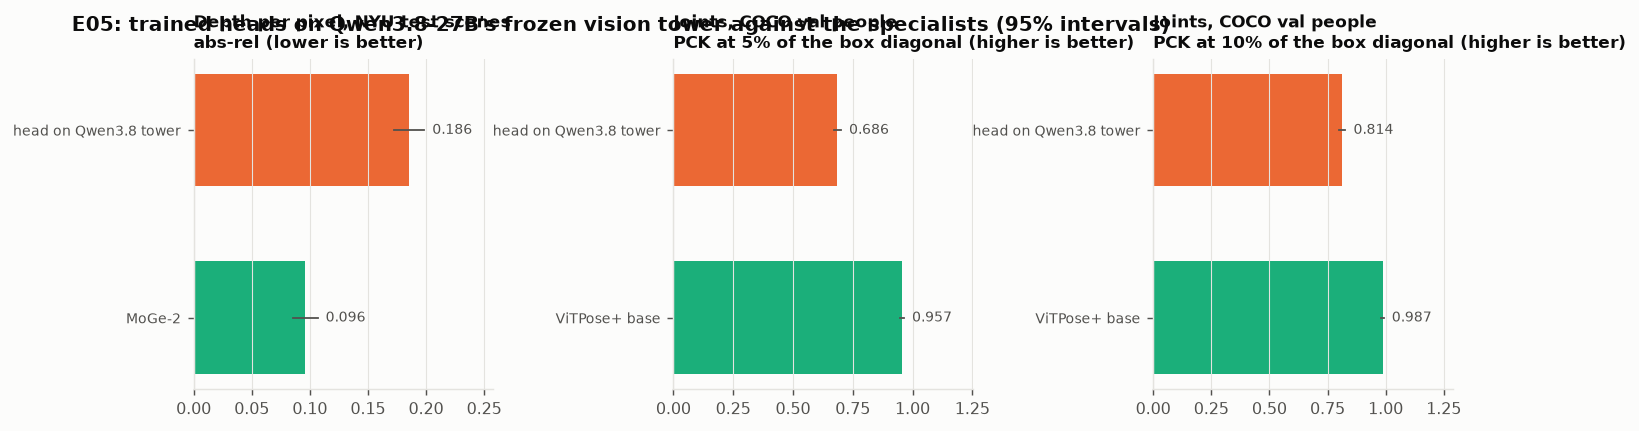
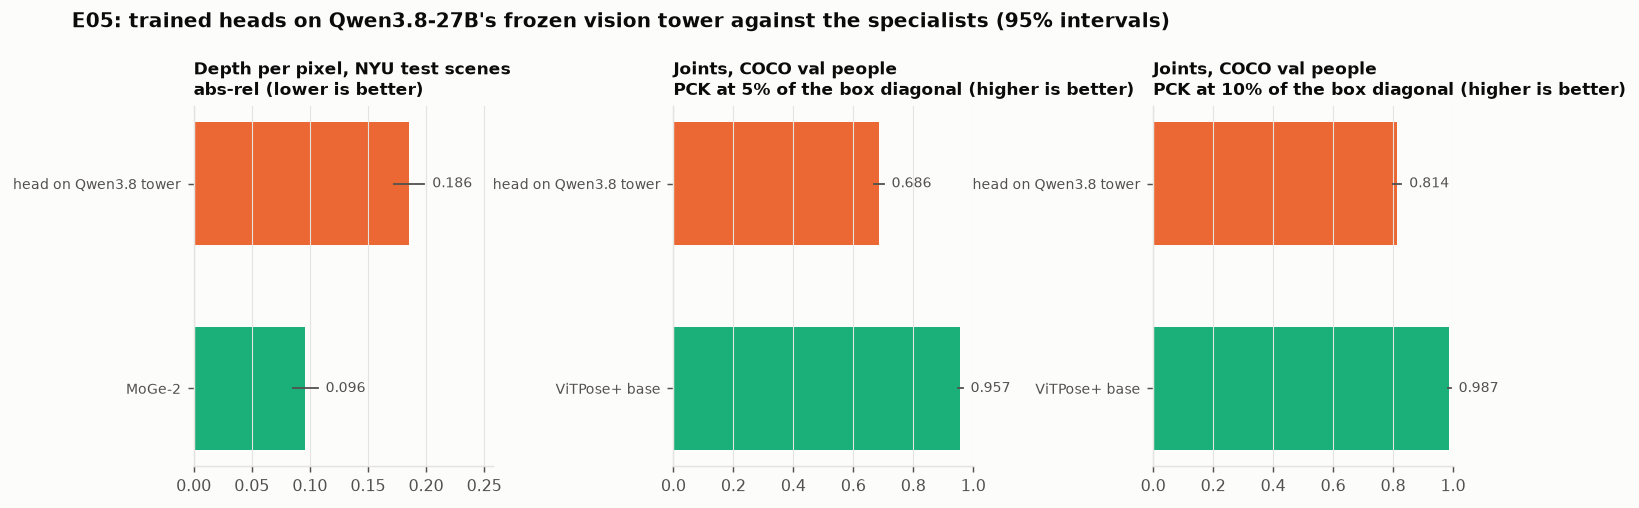
E05/E06 write-up fixes from review: figure 8 layout and PCK axes, settled rental cost, relations split named, E05 training-set caveat
Claude-Session: https://claude.ai/code/session_01R8R5qMPz28uLU3q7Kvm8mo

diff --git a/src/make_figures_e05.py b/src/make_figures_e05.py
@@ -16,7 +16,7 @@ def main():
     a = ap.parse_args()
     R = json.loads(Path(a.results).read_text())
     plt = plt_setup()
-    fig, axes = plt.subplots(1, 3, figsize=(12.5, 3.3), gridspec_kw={'wspace': 0.6})
+    fig, axes = plt.subplots(1, 3, figsize=(12.5, 3.6), gridspec_kw={'wspace': 0.6})
     panels = [('Depth per pixel, NYU test scenes\nabs-rel (lower is better)', [('head on Qwen3.8 tower', R['depth_head']['abs_rel'], R['depth_head']['abs_rel_ci'], ORANGE),
                                                                                  ('MoGe-2', R['depth_moge2']['abs_rel'], R['depth_moge2']['abs_rel_ci'], AQUA)]),
               ('Joints, COCO val people\nPCK at 5% of the box diagonal (higher is better)', [('head on Qwen3.8 tower', R['joints_head_pck5']['value'], R['joints_head_pck5']['ci'], ORANGE),
@@ -30,8 +30,8 @@ def main():
             ax.text(c[1], y, f'  {v:.3f}', va='center', fontsize=8, color=INK2)
         ax.set_yticks(range(len(rows))); ax.set_yticklabels([r[0] for r in rows[::-1]], fontsize=8)
         ax.set_title(title, loc='left', fontsize=9.5); ax.grid(axis='y', visible=False)
-        ax.set_xlim(0, max(r[2][1] for r in rows) * 1.3)
-    fig.suptitle('E05: trained heads on Qwen3.8-27B\'s frozen vision tower against the specialists (95% intervals)', x=0.05, ha='left',
+        ax.set_xlim(0, 1.0 if 'PCK' in title else max(r[2][1] for r in rows) * 1.3)
+    fig.suptitle('E05: trained heads on Qwen3.8-27B\'s frozen vision tower against the specialists (95% intervals)', x=0.05, y=1.08, ha='left',
                  fontsize=11, fontweight='bold', color=INK)
     fig.savefig(Path(a.out)/'fig8_dense_head.png', dpi=130, bbox_inches='tight')
     print('saved fig8_dense_head.png')

diff --git a/experiments/E06-prompt-robustness/RESULTS.md b/experiments/E06-prompt-robustness/RESULTS.md
@@ -2,7 +2,7 @@
 
 **Status.**
 - Pre-registered ([PREREG.md](PREREG.md), pushed as 0072699 before the run).
-- Run on the shared E03/E06 rental: RTX PRO 6000, 2.09 h in all, $3.47; see `docs/SPEND.md`.
+- Run on the shared E03/E06 rental: RTX PRO 6000, 2.09 h in all, $3.59 as settled; see `docs/SPEND.md`.
 - All five models, E01's 1,385 images.
 - Every number is printed by `src/report_e06.py` into [data/tables_e06.md](data/tables_e06.md), cited as
   `tables_e06.md:line`.
@@ -31,13 +31,16 @@
   - relations stay at 0.926 (38 of 1,313 answers flipped, in both directions) (`tables_e06.md:22-27`).
 - **The base and older models are more sensitive:**
   - Qwen3.5-9B's street depth worsens from 0.359 to 0.519 (`tables_e06.md:29`).
-  - Relations, asked the other way round, drop for Qwen3.5-9B (-0.024), Qwen2.5-VL-3B (-0.075) and SpaceQwen2.5-VL-3B
-    (-0.100, from 0.698 to 0.598) (`tables_e06.md:33,39,45`).
+  - Relations asked the other way round drop on the test split for Qwen3.5-9B (-0.024), Qwen2.5-VL-3B (-0.075) and
+    SpaceQwen2.5-VL-3B (-0.100, from 0.698 to 0.598) (`tables_e06.md:33,39,45`).
+  - On all relation items, held-out streets included, Qwen2.5-VL-3B drops 12.8 points (0.784 to 0.656,
+    `tables_e06.md:44`).
 
 ## What this means
 - **The paper's spoken-answer claims are not an artefact of one phrasing.**
   - The general models' depth stays at name-prior level.
   - The spatial fine-tune's advantage over its base holds.
   - The spatial fine-tune is also the most stable under rewording.
-- **The relation answers of the base and older models depend on how the question is put.** The SpatialVLM-recipe
-  model loses 10 points of balanced accuracy when the same relation is asked the other way round.
+- **The relation answers of the base and older models depend on how the question is put.** Asked the other way
+  round, the SpatialVLM-recipe model loses 10 points of balanced accuracy on the test split; Qwen2.5-VL-3B loses 12.8
+  points on all items.

diff --git a/experiments/E05-dense-vision-head/README.md b/experiments/E05-dense-vision-head/README.md
@@ -1,7 +1,7 @@
 # E05 — Can a head on Qwen3.8's own vision tower measure like the specialists?
 
-**Objective.** E01 and E02 show coarse geometry on the language side. Is fine geometry available from the vision
-tower to a trained head, at the precision engagement measures need?
+**Objective.** E01 and E02 show coarse geometry on the language side. Can a trained head on the vision tower read
+dense depth and people's joints as precisely as the specialist models do?
 
 **Setup.**
 - Pre-registered ([PREREG.md](PREREG.md)).
@@ -22,9 +22,7 @@ tower to a trained head, at the precision engagement measures need?
 
 Both fail the pre-registered bar: depth by 1.94x, joints by 27 points.
 
-**Verdict.** The tower holds geometry a head can read, at about half the specialists' precision. Not enough for joint-
-or centimetre-level engagement measures.
-
-**Next.** Keep the specialists as the measurement layer, with the VLM reasoning over their numbers.
+**Verdict.** The tower holds dense depth and joint geometry a head can read, at about half the specialists'
+precision. The depth head trained on 276 images, so this is what a small head reads, not the most the tower holds.
 
 Details: [RESULTS.md](RESULTS.md). Code: `src/dense_head.py`, `src/make_figures_e05.py`.

diff --git a/experiments/E06-prompt-robustness/README.md b/experiments/E06-prompt-robustness/README.md
@@ -7,14 +7,15 @@ wording of the same questions?
 - Pre-registered ([PREREG.md](PREREG.md)).
 - All five models, E01's 1,385 images.
 - A second JSON ask with the same schema, and the relation questions asked the other way round (same truth).
-- Cost: part of the shared E03/E06 rental ($3.47 in all).
+- Cost: part of the shared E03/E06 rental ($3.59 in all, as settled).
 
 **Results** (calm frames; abs-rel, lower is better):
 - Qwen3.8-27B's asked depth stays at the name prior: 0.395 vs 0.394.
 - SpatialAxiom-9B still beats its base: 0.244 vs 0.342, difference -0.097 [-0.136, -0.059].
 - **Both pre-registered criteria hold.**
-- SpatialAxiom's relations do not move (0.926 vs 0.926). The base and older models lose up to 10 points when a relation
-  is asked the other way round.
+- SpatialAxiom's relations do not move (0.926 vs 0.926).
+- The base and older models lose points when a relation is asked the other way round: up to 10 on the test split, and
+  12.8 for Qwen2.5-VL-3B on all items.
 
 **Verdict.** The spoken-answer findings are robust to the wording. The relation answers of the base and older models
 are not.

diff --git a/experiments/E05-dense-vision-head/RESULTS.md b/experiments/E05-dense-vision-head/RESULTS.md
@@ -31,11 +31,12 @@
 - **The information is there, at coarse precision.** A trained head reads per-pixel depth from Qwen3.8's tower at
   0.186 abs-rel, twice MoGe-2's error. For a loose comparison, since the grain differs: E01's exploratory linear probe
   per 32-px token reached 0.223 at best in the tower and 0.345 at the last language layer.
+- **Training-set size limits the depth figure.** The depth head trained on 276 images, so 0.186 is what a small head
+  reads from the tower, not the most the tower holds.
 - **Joints are recoverable to about 7 in 10 within 5% of the body box,** against ViTPose's 96%.
 - **Both fall short of the specialists by a wide margin,** and both heads were trained and tested in-domain.
-- So the vision tower holds geometry a head can read, but not at the precision engagement measures need: joints to a
-  few pixels, depth to a few percent. The specialists remain the right measurement layer, and the VLM the right
-  reasoning layer.
+- So the vision tower holds dense depth and joint geometry a head can read, but at about half the specialists'
+  precision on both.
 
 ## Reproduce
 ```

diff --git a/FINDINGS.md b/FINDINGS.md
@@ -73,6 +73,7 @@ abs-rel 0.223). It fades through the language layers to 0.345 at the last one, c
 14. **The spoken-answer findings survive rewording.** Qwen3.8-27B's asked depth stays at the name prior (0.395 vs
     0.394, tables_e06.md:16). SpatialAxiom-9B still beats its base (0.244 vs 0.342; difference -0.097 [-0.136, -0.059],
     tables_e06.md:10).
-15. **Relations asked the other way round cost the base and older models up to 10 points** of balanced accuracy.
-    SpaceQwen2.5-VL-3B drops from 0.698 to 0.598; SpatialAxiom-9B does not move (0.926 vs 0.926)
-    (tables_e06.md:27,39).
+15. **Relations asked the other way round cost the base and older models balanced accuracy.**
+    - Test split: up to 10 points. SpaceQwen2.5-VL-3B drops from 0.698 to 0.598; SpatialAxiom-9B does not move (0.926
+      vs 0.926) (tables_e06.md:27,39).
+    - All items, streets included: up to 12.8 points, for Qwen2.5-VL-3B (tables_e06.md:44).

diff --git a/README.md b/README.md
@@ -68,7 +68,8 @@ without the two-person dataset's MMA and grappling frames, and no verdict change
   - Joints: 68.6% within 5% of the box diagonal, vs ViTPose+'s 95.7%.
 - [E06](experiments/E06-prompt-robustness/): do the spoken answers hold under a second wording? (pre-registered).
   - **Yes.** Qwen3.8's depth stays at the name prior; SpatialAxiom still beats its base.
-  - The base and older models lose up to 10 points on relations asked the other way round.
+  - The base and older models lose up to 10 points on relations asked the other way round (test split; 12.8 for
+    Qwen2.5-VL-3B on all items).
 - [E03](experiments/E03-many-domain-decoder/): a decoder trained on one more scene type (synthetic indoor). Running; results to follow.
 - Plan, not run: [docs/PLAN_E03.md](docs/PLAN_E03.md). A decoder trained on many datasets, and the measures not yet
   covered: orientation and angles, surfaces, motion, counts.
